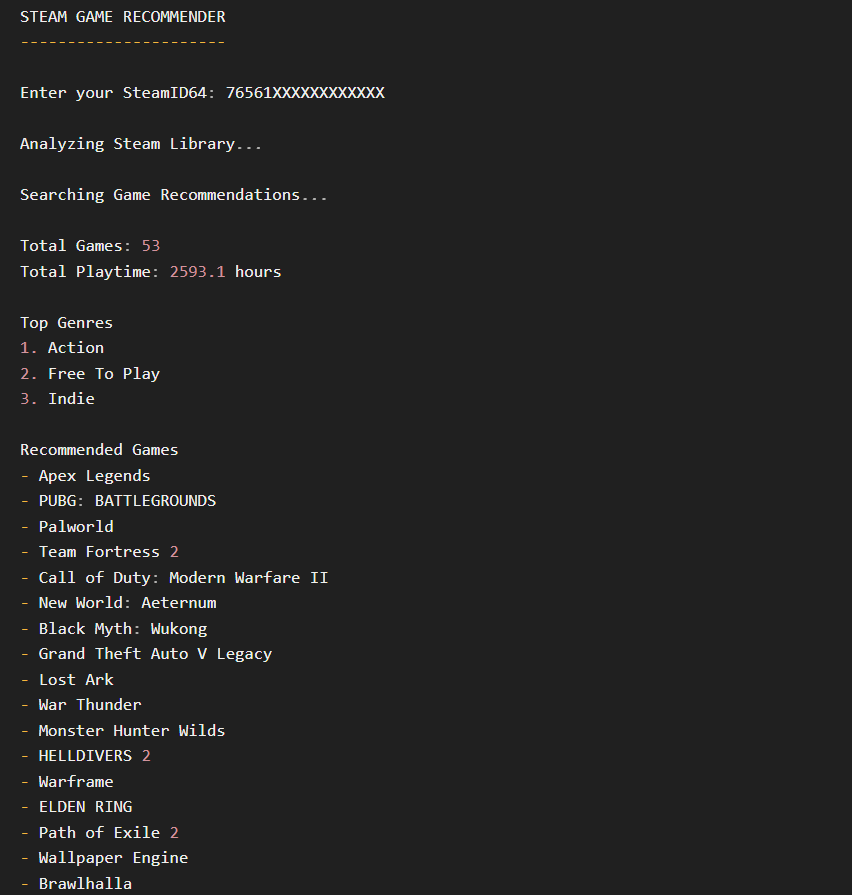
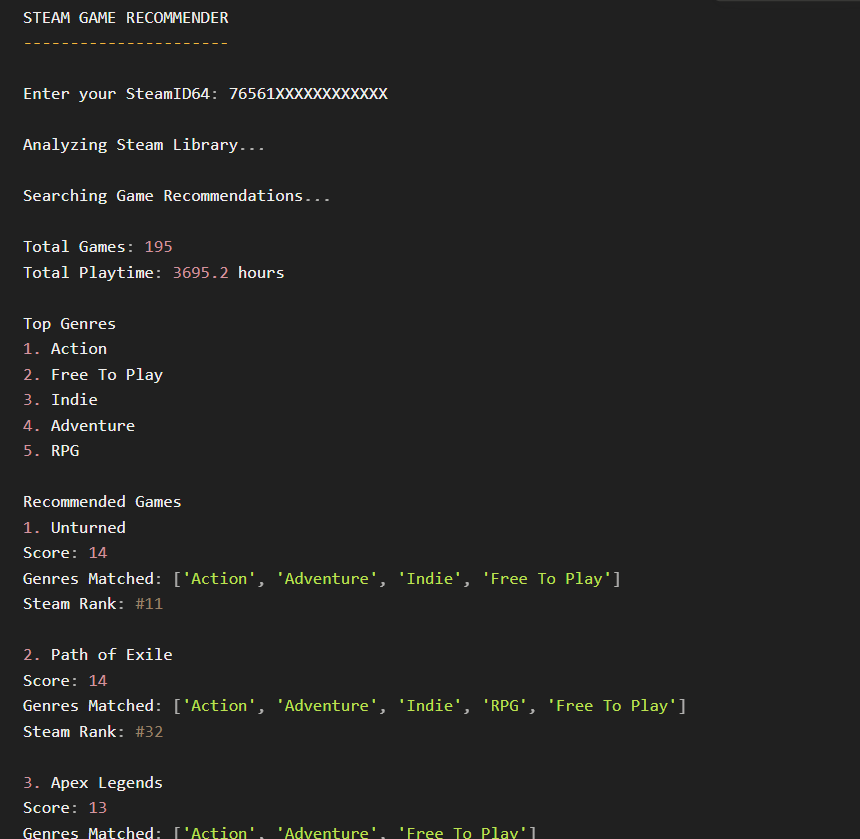
Docs: Added new project preview image and updated the readme to match the current stage of the project

diff --git a/README.md b/README.md
@@ -15,7 +15,26 @@ This project was built as a learning project to practice working with APIs, JSON
 * Retrieve all owned games and their playtime
 * Analyze the user's most played genres
 * Retrieve the Steam Weekly Top 100 games
-* Recommend games based on the user's preferred genres
+* Score and rank games based on user preferences:
+
+              Genre Score
+        favorite genre match   +5
+        second genre match     +3
+        third genre match      +2
+        other top 5 genre      +1
+
+             Popularity Score
+        rank 1-10    +3
+        rank 11-30   +2
+        rank 31-60   +1
+        rank 61-100  +0
+
+              Diversity Bonus
+        If a game matches multiple genres: +1 bonus
+
+                            **Final Score**
+        final_score = genre_score + popularity_score + diversity_bonus
+
 * Terminal-based interface
 * API data parsing using JSON
 
@@ -43,20 +62,35 @@ This project was built as a learning project to practice working with APIs, JSON
 
 ## Project Structure
 steam-game-recommender/
+
 │
+
 ├── images/
-│   └── preview.png
+
+│       └── preview.png
+
 │
+
 ├── main.py
+
 ├── steam_api.py
+
 ├── library.py
+
 ├── analyzer.py
+
 ├── recommender.py
+
 ├── utils.py
+
 ├── terminal.py
+
 │
+
 ├── requirements.txt
+
 ├── .gitignore
+
 └── README.md
 
 ### Module Responsibilities
@@ -146,6 +180,18 @@ Example output of the program running in the terminal.
 * Export recommendations to a file
 * Web interface using Flask
 * User interface improvements
+
+---
+
+## Versions
+
+v1.1
+- Scoring-based recommendation system
+- Improved ranking algorithm
+
+v1.0
+- Basic genre-based recommendations
+- Steam API integration
 
 ---
 
